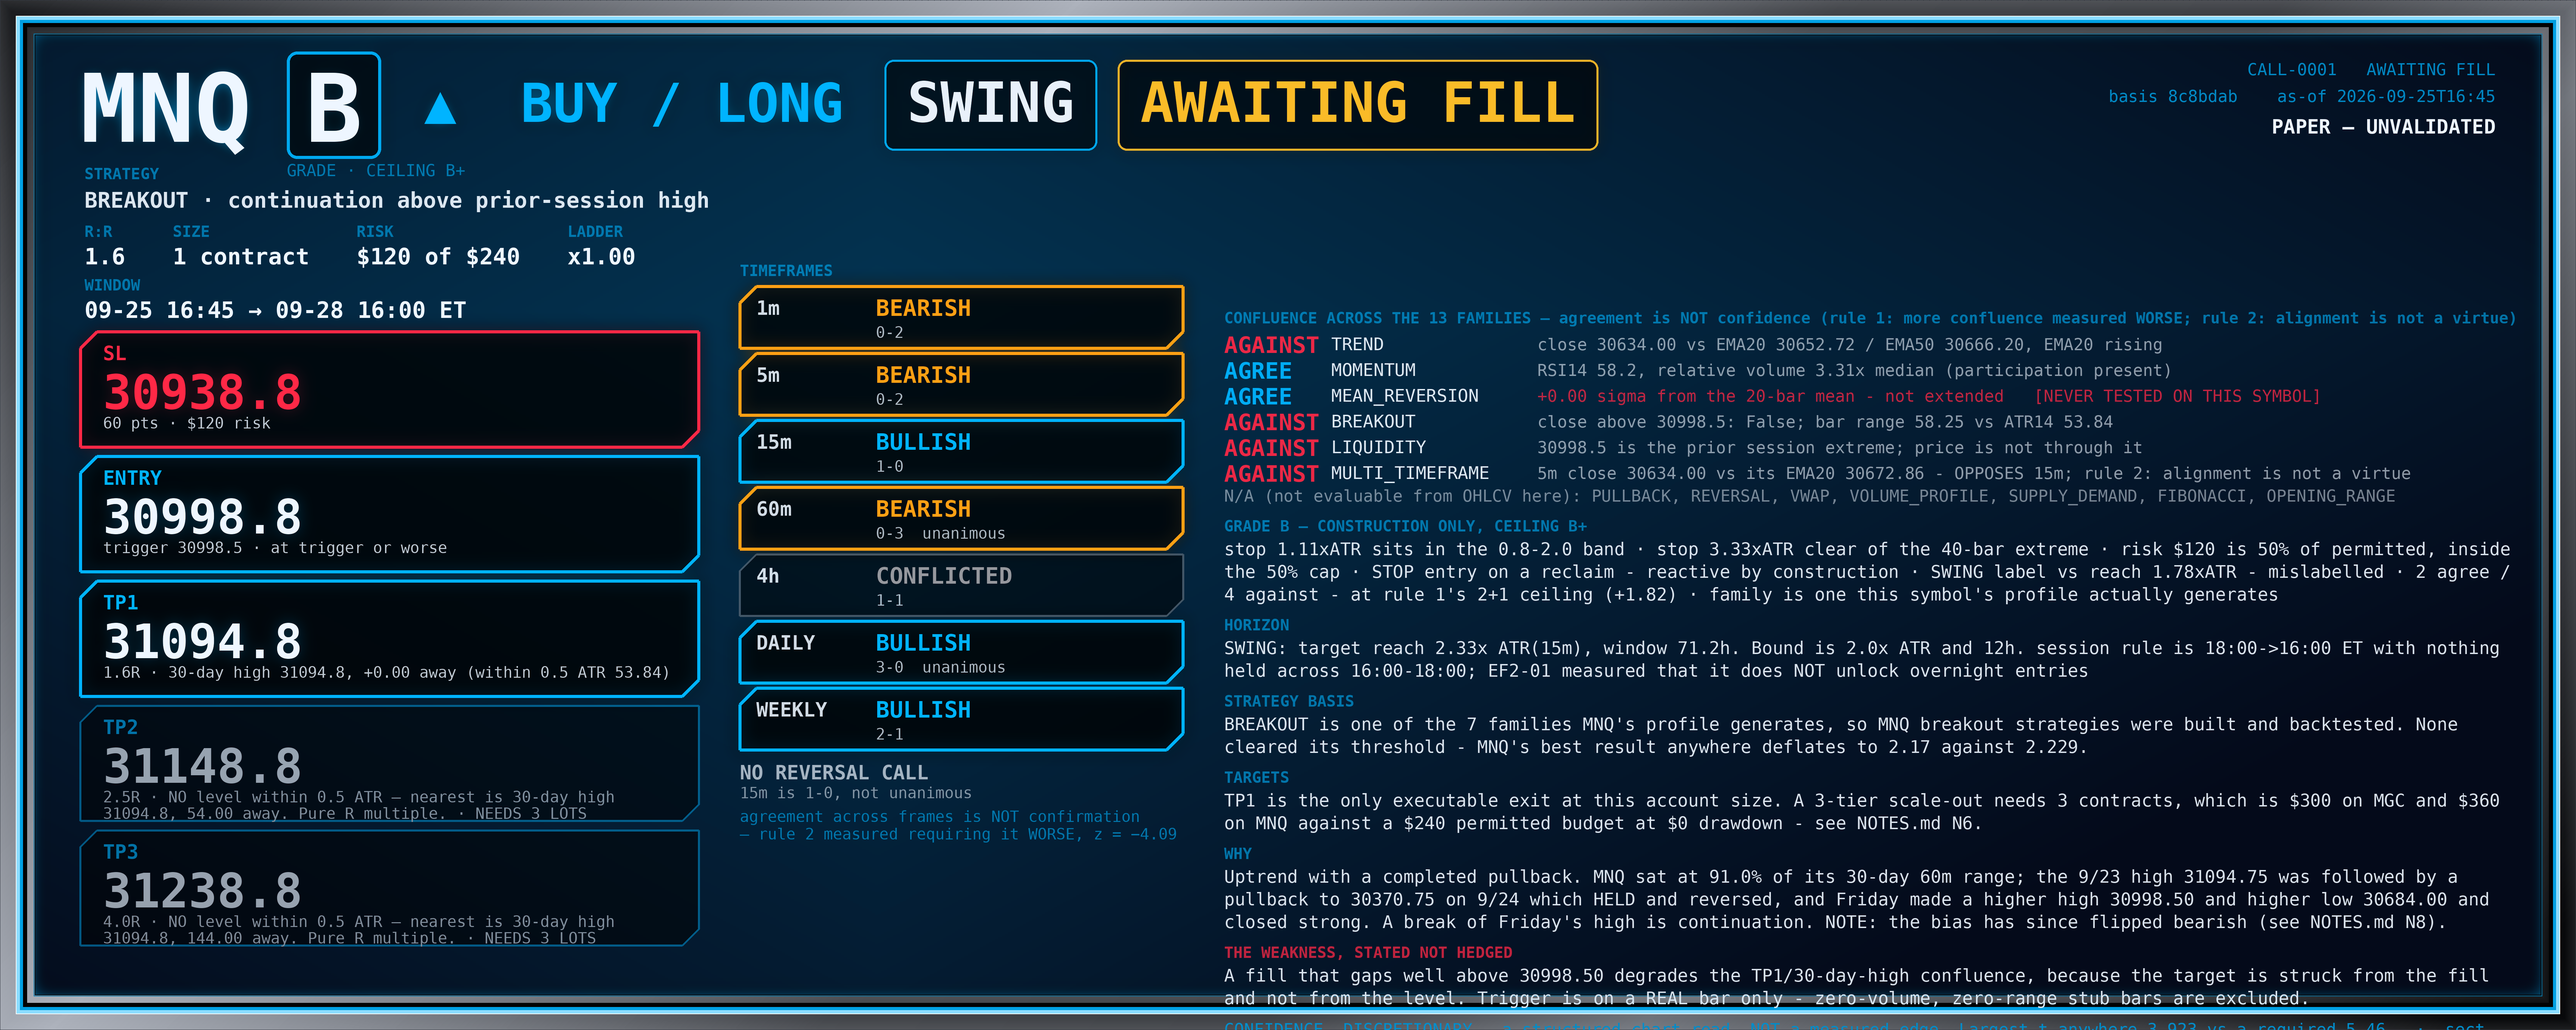
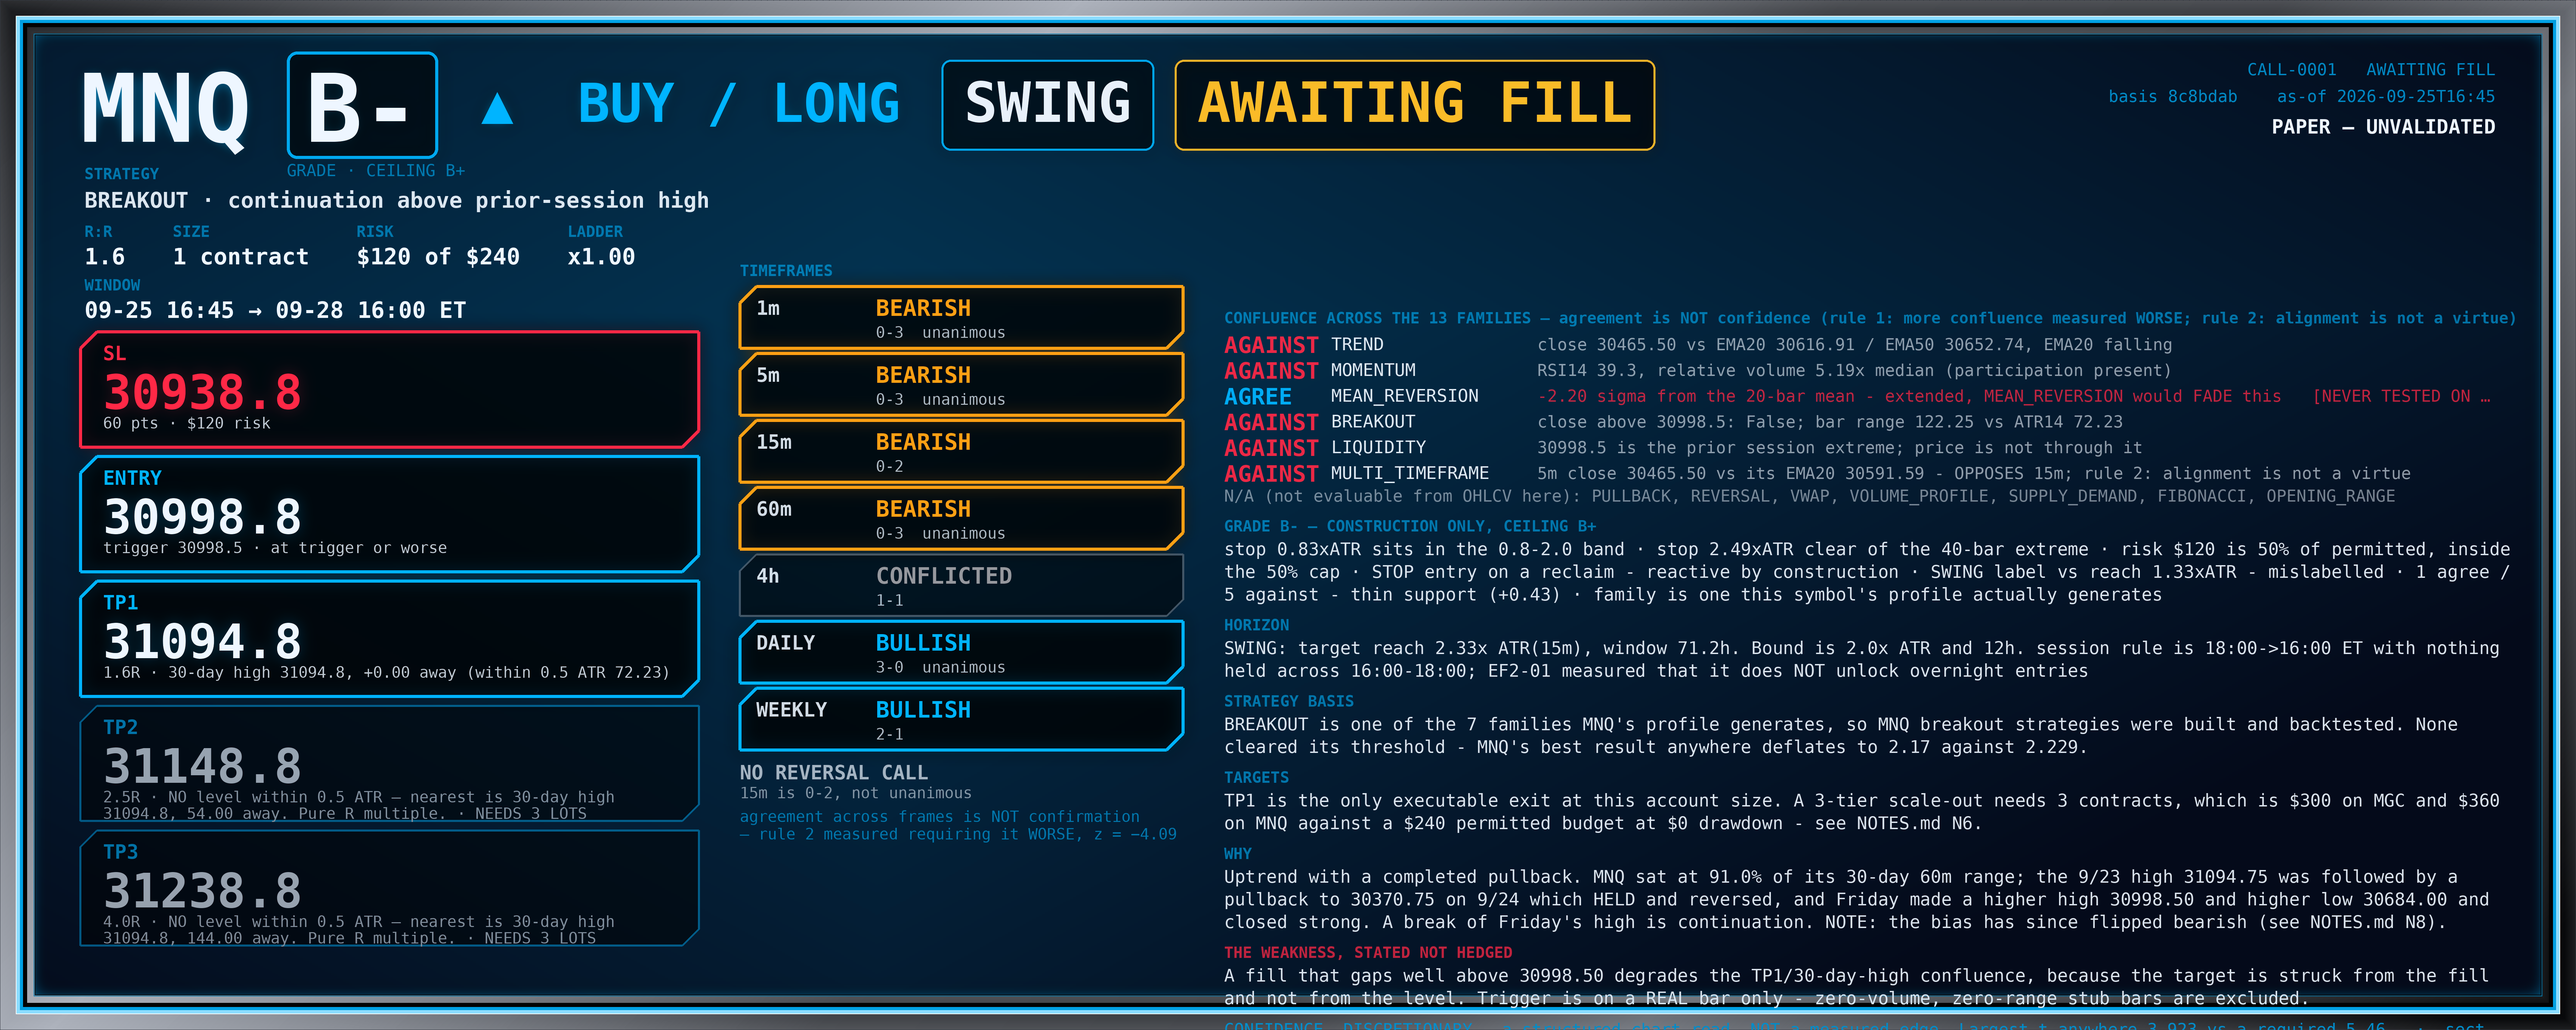
CALL desk: 10:53 hourly full check - cron 33ba414e verified present; ATRs re-measured at MGC 12.74 / MNQ 72.23, so the 50% cap now binds below 1.0x ATR on both symbols; 60m unanimous BEARISH on both; measurement programme still at n=0
Claude-Session: https://claude.ai/code/session_01EE6PFk7fGa2tM4KP6dpfWD

diff --git a/workspace/paper/CALL/NOTES.md b/workspace/paper/CALL/NOTES.md
@@ -6591,3 +6591,76 @@ sample later.
 CALL-0001 (MNQ LONG, stop-entry 30998.50) is now **497.75 points away** and needs a 1.6% rally in five hours
 to trigger. It stays exactly as written until the 16:00 bar retires it — N8 forbids editing a pre-registered
 plan after watching price, and that applies most strongly when the plan looks worst.
+
+## N190 — 10:53 hourly full check: the 50% cap now binds BELOW 1.0x ATR on both symbols
+
+Cadence verified by listing it, not remembering it: `CronList` returns **`33ba414e — Every 5 minutes
+(recurring) [session-only]`**, carrying the fast-check prompt. Present, unchanged, and **no `send_later`
+chain armed** — two 5-minute mechanisms is the N42/N45 failure. CALLOUT.md re-read in full: unchanged since
+`1948339`, and it does **not** contradict CHECK_PROCEDURE.md, so nothing to record under the
+CALLOUT-wins rule.
+
+**ATRs re-measured this firing, not inherited:**
+
+    MGC  15m ATR14  12.74  (10.97 at 10:00, 8.52 overnight, +50% on the session)
+         1.0x = $127.43 = 53.1% of $240   -> the $120 cap binds at 0.94x ATR
+         rule 4 floor 0.5x = 6.37 points = $63.71
+
+    MNQ  15m ATR14  72.23  (53.84 at 10:00, 31.10 overnight, +132% on the session)
+         1.0x = $144.46 = 60.2% of $240   -> the $120 cap binds at 0.83x ATR
+         rule 4 floor 0.5x = 36.12 points = $72.23
+
+**This is the squeeze N181 said to watch for, and it has arrived.** A 1.0x-ATR stop on one contract now
+exceeds the desk's own 50% cap on BOTH symbols for the first time this session. The placeable band is
+**0.50x-0.94x ATR on MGC** and **0.50x-0.83x ATR on MNQ**. Still open, but a plan sized at 1.0x ATR — the
+shape of every plan this desk has written — is now uninstantiable at one contract without breaching the cap.
+MNQ's ATR has more than doubled on the session and rose 34% in the last twenty minutes alone.
+
+Per CALLOUT.md's one finding that clears its own deflation threshold — **governors that shrink size are net
+protective, |z| 6.164 / 5.543 against `free_t` 2.2293** — the correct response to that squeeze is to place
+nothing rather than to widen the cap. I am not widening the cap.
+
+**Fresh directional read, both symbols, settled frames first (N41/N47 — do not lead with a fast-frame flip):**
+
+    MGC 60m  BEARISH 0-3 (all three components)  close 4189.40 < EMA20 4227.85 falling
+             structure highs 4332.30->4203.80 lower, lows 4224.10->4172.60 lower
+             location 11.5% of [4168.30, 4351.60]      newest completed 60m bar 09:00
+    MNQ 60m  BEARISH 0-3 (all three components)  close 30651.00 < EMA20 30700.86 falling
+             structure highs 30900.50->30705.50 lower, lows 30780.00->30535.00 lower
+             location 25.0% of [30535.00, 30998.50]    newest completed 60m bar 09:00
+
+    MGC 15m  BEARISH 0-2  close 4157.30 < EMA20 4181.38  location 3.0% of [4155.00, 4231.50]
+    MNQ 15m  BEARISH 0-2  close 30465.50 < EMA20 30615.94  location 7.6% of [30441.25, 30759.25]
+
+**The 60m is the frame that matters here and it is unanimous BEARISH on both symbols** — the first time this
+session that the settled 60m has been 0-3 on both at once. That is a description, not a signal, and under
+rule 2 (z = -4.09) the fact that every other frame agrees with it is not corroboration.
+
+**No callout.** Both reversal tests decline: MGC on the structural block (N166 — `prior: None`, unreachable
+while DAILY/WEEKLY are ineligible), MNQ on 15m not unanimous (0-2, structure MIXED). Beyond the tests, the
+positive case for a short is the worst it has been all morning: MGC is 3.5x ATR below its 10:09 high and MNQ
+4.6x, and CALLOUT.md §3 puts MGC's RTH at 08:20-13:30 so there are under three hours of measured session
+left on it. **Do not manufacture a callout to justify the wake-up.**
+
+### Ledger — win rate and payoff together, never one without the other (rule 3)
+
+    journal entries                 22      (12 with side: null - NO TRADE and admin rows)
+    pending.jsonl                   1 PENDING, 3 EXPIRED, 1 TRIGGERED
+    ambiguous-bar resolutions       0        (resolve.py has never hit one)
+
+    state.json  equity $50,156.56   peak $50,156.56   drawdown $0.00   realized $156.56
+                open 0              closed 1 (CALL-0002, WIN, +1.566R)
+
+    CALL-0002 IS EXCLUDED FROM MEASUREMENT (N155) - filled 102.70 points from its specified entry
+    because its created_bar_ts was future-dated and off the 15m grid.
+
+    MEASURED RECORD:  closed trades 0 | wins 0 | losses 0
+                      win rate UNDEFINED  and  payoff UNDEFINED  (n = 0; neither exists, and rule 3
+                      forbids quoting either alone even when one of them could be computed)
+                      expectancy UNDEFINED at n = 0
+                      equity $50,000.00   peak $50,000.00   drawdown $0.00
+                      distance to the $2,800 absorbing state: the FULL $2,800 (floor $47,200)
+
+Four plans have now closed without producing a countable outcome: CALL-0003 and CALL-0004 expired
+untriggered, CALL-0005 expired untriggered (N179), CALL-0002 filled defectively and is excluded. **The desk's
+measurement programme is at n = 0 after a full session**, which is the honest headline of this check.
